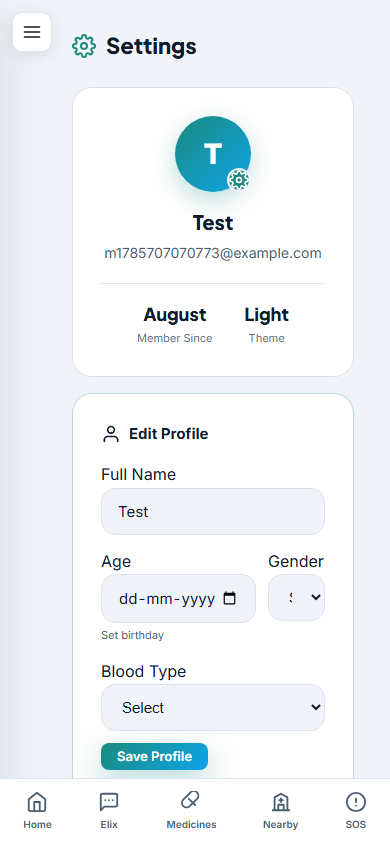
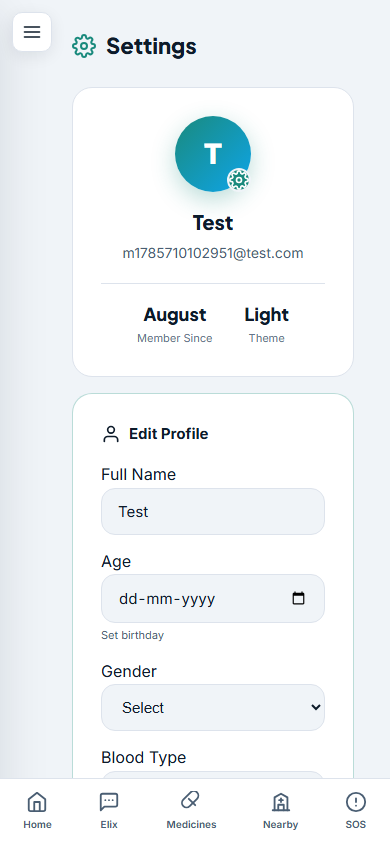
Settings: stack Age/Gender fields vertically on mobile to fix truncated gender dropdown

diff --git a/frontend/css/style.css b/frontend/css/style.css
@@ -1196,6 +1196,8 @@ body.logged-in { --header-h: 0; }
 .modal-close { font-size: 18px; color: var(--muted); padding: 4px 8px; border-radius: var(--radius-sm); transition: background var(--transition); }
 .modal-close:hover { background: var(--bg); }
 .form-group { margin-bottom: 14px; }
+.acct-profile-row { display: flex; gap: 12px; }
+@media (max-width: 480px) { .acct-profile-row { flex-direction: column; gap: 0; } }
 .form-input {
   width: 100%; padding: 13px 16px; border-radius: var(--radius); border: 1.5px solid var(--border);
   background: var(--bg); color: var(--fg); font-size: 15px; transition: border-color var(--transition);

diff --git a/frontend/js/app.js b/frontend/js/app.js
@@ -2052,7 +2052,7 @@ function renderAccount() {
           <label class="form-label">Full Name</label>
           <input id="prof-name" class="form-input" type="text" value="${escapeHtml(u?.name || "")}" placeholder="Your name" />
         </div>
-        <div style="display:flex;gap:12px">
+        <div class="acct-profile-row">
           <div class="form-group" style="flex:1">
             <label class="form-label">Age</label>
             <input id="prof-dob" class="form-input" type="date" value="${u?.date_of_birth || ""}" max="${new Date().toISOString().split('T')[0]}" />
